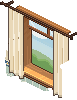
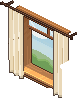
Janela da cozinha sem o pedaço da pia no recorte e o louceiro longe da chapa do fogão
A arte da janela (os 3 estados e os 11 quadros da cortina ao vento) trazia, embaixo do peitoril, a faixa
azul-clara dos azulejos da pia e o frasco do lado: saíram. Nas casas de Tiradentes e do Igarapé, o louceiro
fica uma casa depois do fogão a lenha (com a porta no fundo, na parede da esquerda), porque a chapa passava
por cima dele.

diff --git a/server/src/seedTiradentes.ts b/server/src/seedTiradentes.ts
@@ -21,7 +21,7 @@ import { estilo, montar, naPlanta, Terreno, type CenaSpec } from "./seedFazenda"
  * (giro 4) tem a de dentro na parede da frente (planBottom); virado para o fundo (giro 0), na do fundo (planTop).
  */
 export const TIRADENTES = "Tiradentes · ";
-export const TIRADENTES_REV = 3;
+export const TIRADENTES_REV = 5;
 
 const hint = (title: string, text: string): Hint => ({ icon: "inspect", title, text, visible: true });
 const oculta = (title: string, text: string): Hint => ({ ...hint(title, text), visible: false });
@@ -186,7 +186,9 @@ function casaPadrao(key: string, lado: "frente" | "fundo", description: string, 
       fundo ? ["portal", 4, 1, 4] : ["portal", 4, 6, 0],
       // a parede do fundo: o fogão a lenha (aceso), o louceiro, a cômoda, o criado-mudo e a cama
       ["fogao_lenha", 0, Y(0), 4, undefined, 1],
-      ["armario_cozinha", 2, Y(0), 4],
+      // o louceiro longe da chapa (17/10): o fogão a lenha tem 94 cm de fundo e a chapa passava por cima dele. Com a porta
+      // na frente, uma casa depois do fogão; com a porta no fundo (na casa 4), na parede da esquerda
+      fundo ? ["armario_cozinha", 0, Y(1), 2] : ["armario_cozinha", 3, Y(0), 4],
       ["comoda", 5, Y(0), 4],
       ["candles", 5, Y(0), 0],
       ["books_stack", 6, Y(0), 0],

diff --git a/server/src/seedIgarape.ts b/server/src/seedIgarape.ts
@@ -19,7 +19,7 @@ import { corredorDe, predioDeApartamentos } from "./predioApartamentos";
  * ficam a oeste (à esquerda), a estrada da van chega pelo leste.
  */
 export const IGARAPE = "Igarapé · ";
-export const IGARAPE_REV = 8;
+export const IGARAPE_REV = 10;
 
 const hint = (title: string, text: string): Hint => ({ icon: "inspect", title, text, visible: true });
 const oculta = (title: string, text: string): Hint => ({ ...hint(title, text), visible: false });
@@ -195,7 +195,9 @@ function casaMineira(key: string, lado: "frente" | "fundo"): CenaSpec {
     floor: [
       fundo ? ["portal", 4, 1, 4] : ["portal", 4, 6, 0],
       ["fogao_lenha", 0, Y(0), 4, undefined, 1],
-      ["armario_cozinha", 2, Y(0), 4],
+      // o louceiro longe da chapa (17/10): o fogão a lenha tem 94 cm de fundo e a chapa passava por cima dele. Com a porta
+      // na frente, uma casa depois do fogão; com a porta no fundo (na casa 4), na parede da esquerda
+      fundo ? ["armario_cozinha", 0, Y(1), 2] : ["armario_cozinha", 3, Y(0), 4],
       ["comoda", 5, Y(0), 4],
       ["cama_casal", 7, Y(0), 4],
       ["mesa_cozinha", 1, Y(2), 4],
